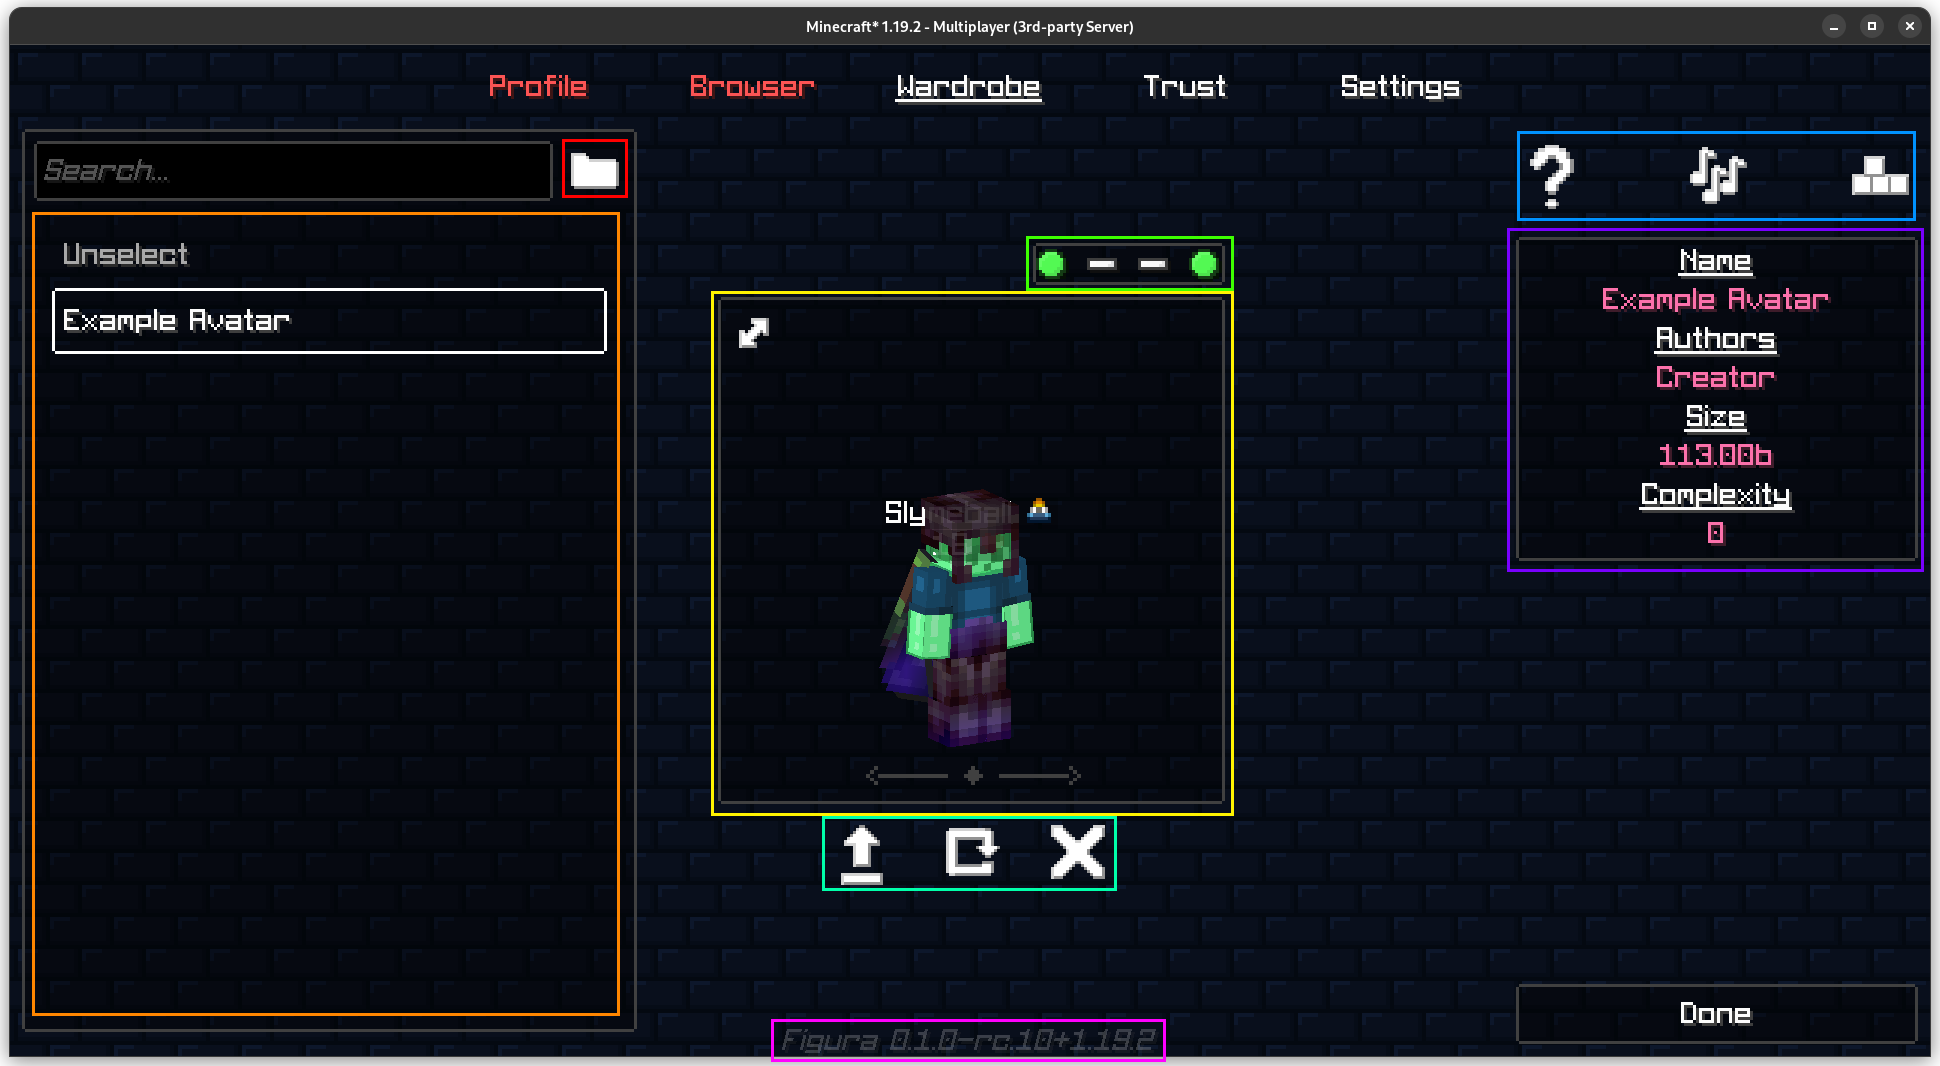
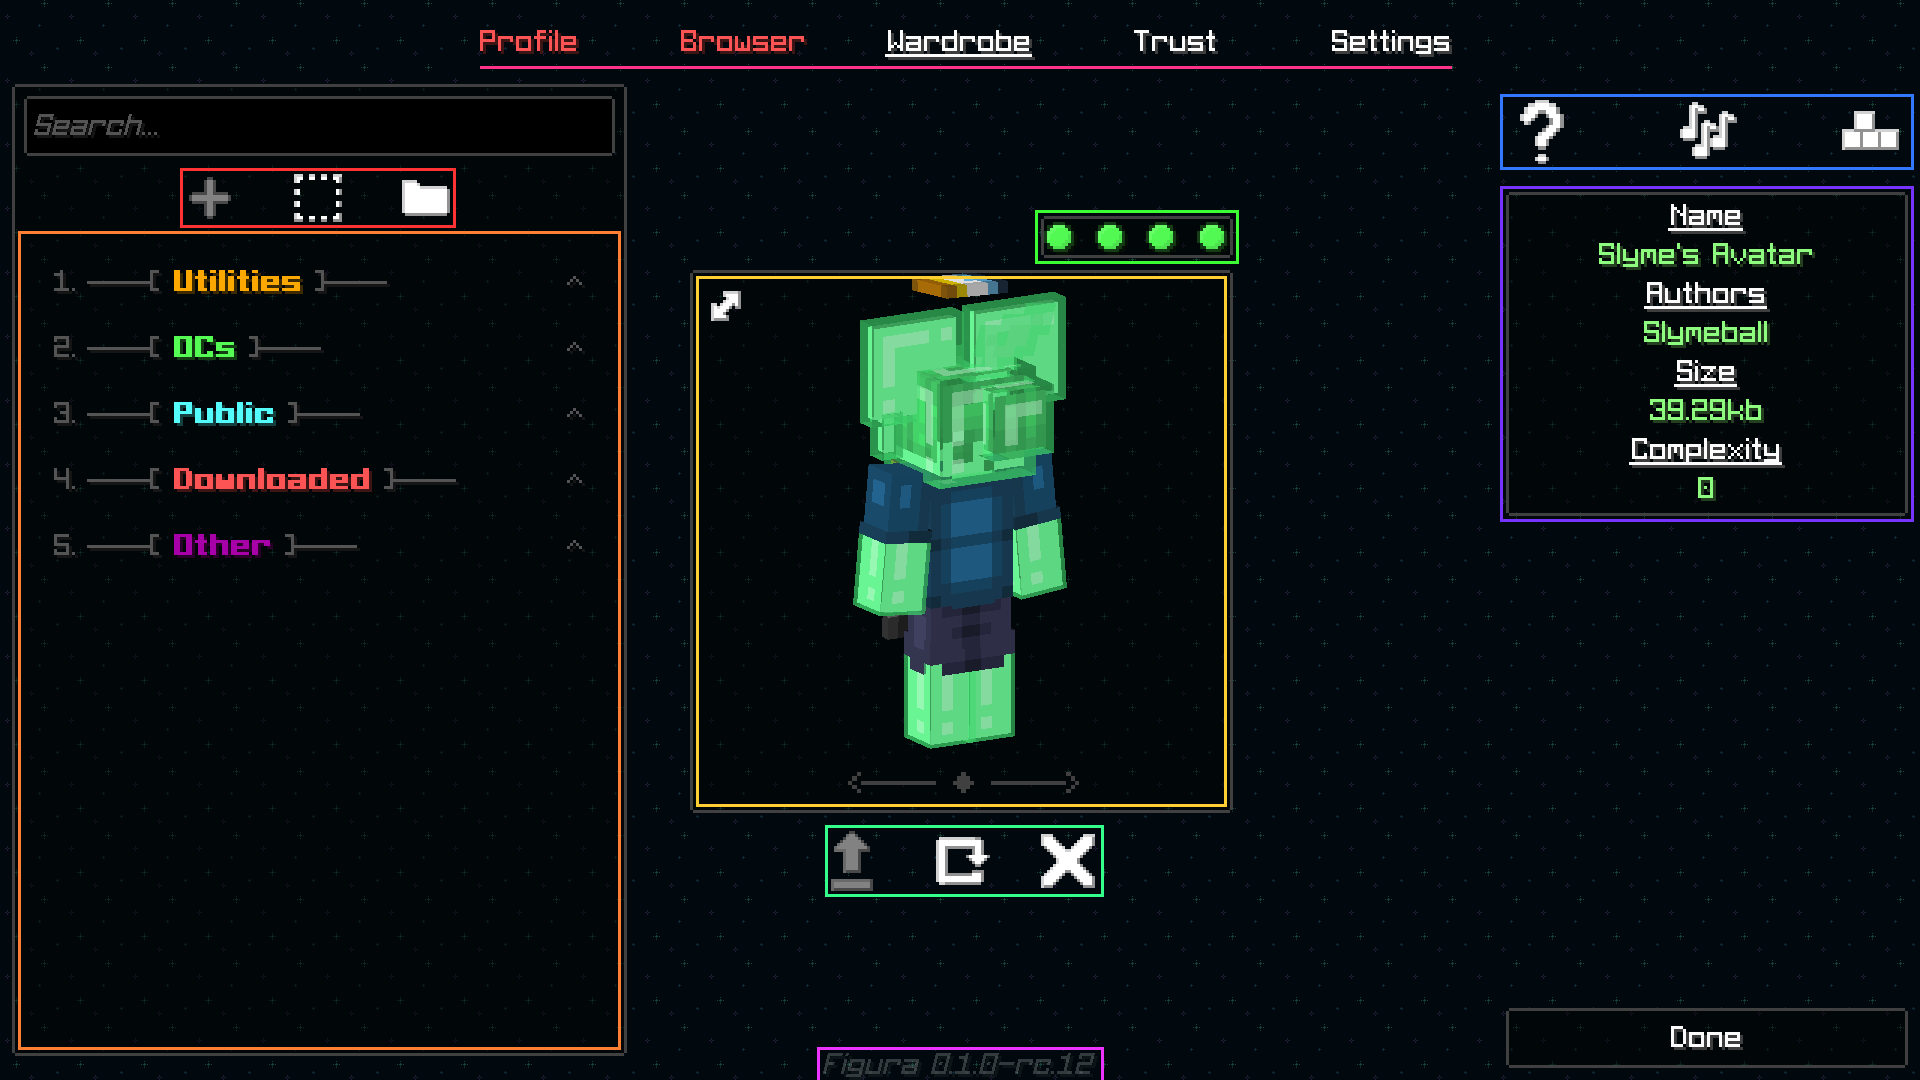
Wardrobe stuff

Changed region(s): [[0.0, 0.0, 1.0, 1.0], [0.0625, 0.4334, 0.2188, 0.4644]]

diff --git a/docs/panel/wardrobe.md b/docs/panel/wardrobe.md
@@ -20,8 +20,10 @@ The wardrobe is where Figura users will select which avatar they want to be seen
 
 ![](https://github.com/Slymeball/figura-wiki/blob/main/images/figura/panel/wardrobe.png?raw=true)
 
-## Red - Open `avatars` folder
-This button only has one function, and it is to open the `.minecraft/figura/avatars` folder using your default file browser.
+## Red - Avatar Management
+- ![](https://github.com/Slymeball/figura-wiki/blob/main/images/figura/icons/new_avatar.png?raw=true) The New Avatar button opens the avatar wizard, which will be added in a later update.
+- ![](https://github.com/Slymeball/figura-wiki/blob/main/images/figura/icons/unselect.png?raw=true) The Unselect button hides your avatar, either local or from backend.
+- ![](https://github.com/Slymeball/figura-wiki/blob/main/images/figura/icons/folder.png?raw=true) The Open Avatars Folder button opens the `.minecraft/figura/avatars` folder using your default file browser.
 
 ## Orange - Avatar Selection
 Shows a list of all selectable avatars and allows you to select an avatar from the list. Doing so ***will not*** automatically upload it to the backend.
@@ -34,7 +36,7 @@ Shows the currently selected or uploaded avatar. You can rotate the camera by le
 ## Green - Status
 Shows indicators for avatar size, texture, script, and backend. Hovering over these indicators will give you more information.
 
-## Teal - Backend Buttons
+## Teal - Backend Management
 Allows users to upload, reload, and delete their avatars from the backend.
 
 - ![](https://github.com/Slymeball/figura-wiki/blob/main/images/figura/icons/upload.png?raw=true) The Upload Avatar button uploads your avatar to the backend for everyone to see.
@@ -42,7 +44,7 @@ Allows users to upload, reload, and delete their avatars from the backend.
 - ![](https://github.com/Slymeball/figura-wiki/blob/main/images/figura/icons/delete.png?raw=true) The Delete Avatar button removes your avatar from the backend.
 
 ## Blue - Avatar-Specific Buttons
-See avatar-specific menus.
+See avatar-specific menus and the official wiki.
 
 - ![](https://github.com/Slymeball/figura-wiki/blob/main/images/figura/icons/wiki.png?raw=true) The Help Page button opens the official Figura wiki at <https://github.com/Kingdom-Of-The-Moon/FiguraRewriteRewrite/wiki/>.
 - ![](https://github.com/Slymeball/figura-wiki/blob/main/images/figura/icons/sounds.png?raw=true) The Sounds button allows you to view and play the custom sounds attached with the avatar.
@@ -56,8 +58,11 @@ Displays information about the avatar, including...
 - Size: The storage used to make the avatar.
 - Complexity: The amount of faces used to make the model. Each cube is 6 complexity.
 
-## Pink - Figura Version
+## Magenta - Figura Version
 Displays the Figura and Minecraft version the client is running.
+
+## Pink - Tabs
+Picks the currently open menu tab.
 
 ## Unpictured - Context Menu
 Allows you to open or copy the path of your avatar. Right click to access.
